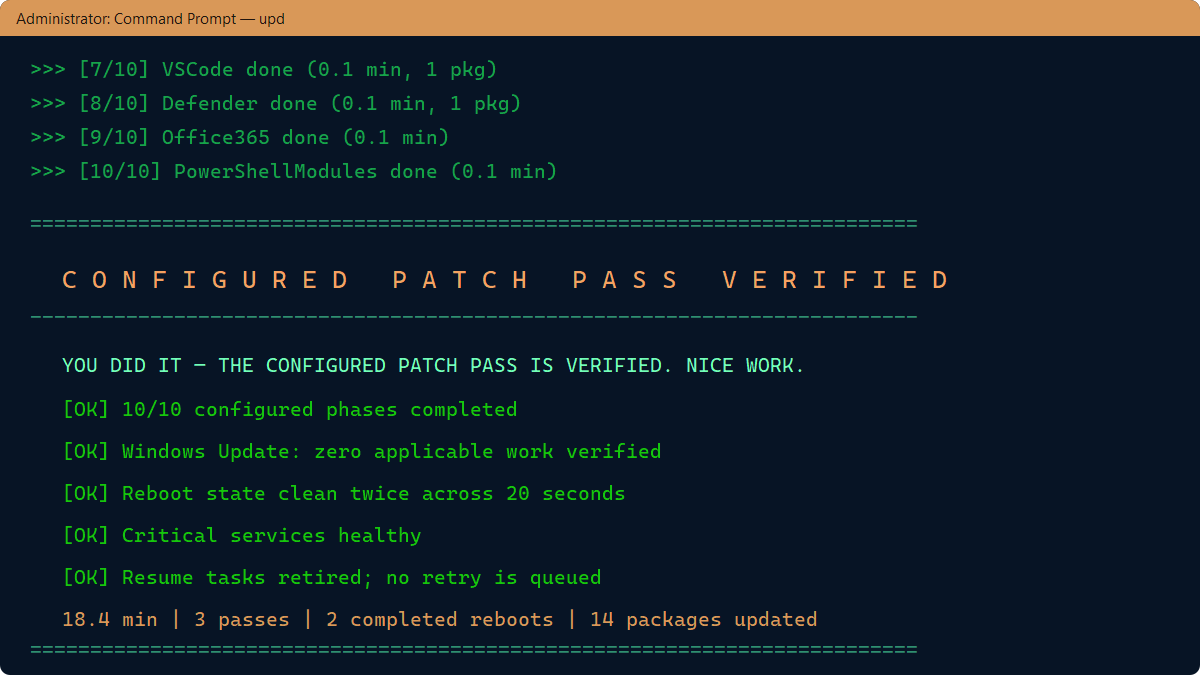
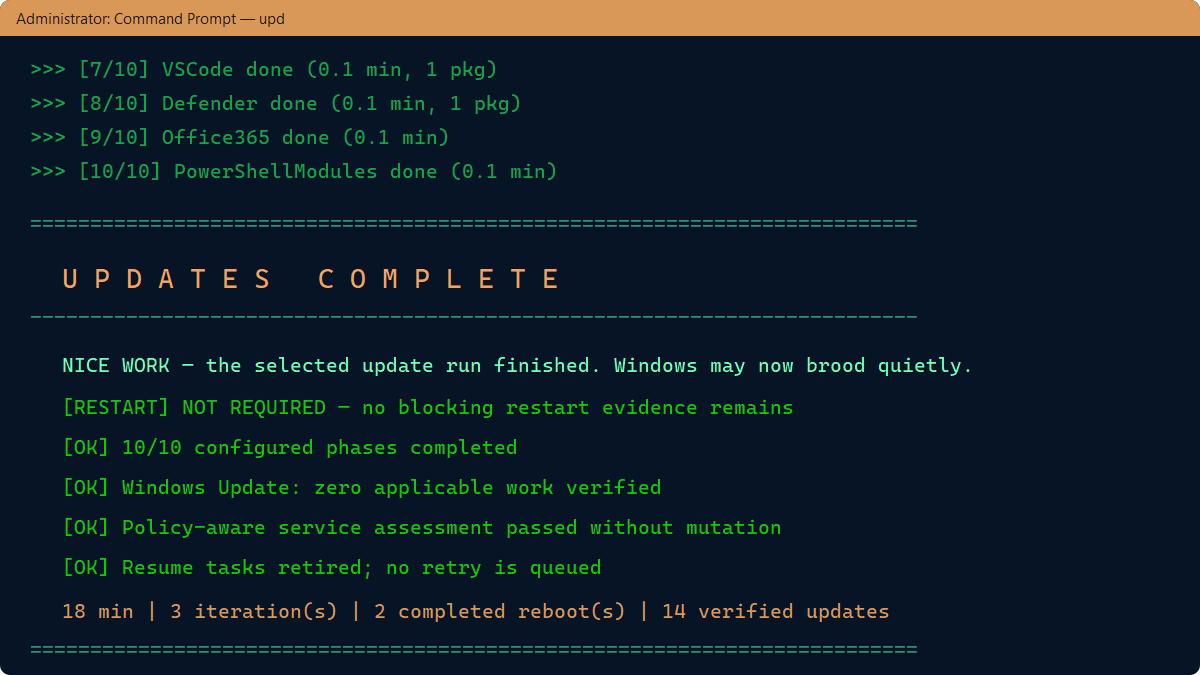
Refresh README for v2.5.62 with useful snark

diff --git a/README.md b/README.md
@@ -1,8 +1,15 @@
 # Boot Update Cycle
 
-**Run `upd` as admin. Walk away. Come back patched—or with a clear, reversible exception report.**
+**Run `upd` as admin. Walk away. Come back patched—or with a clear, reversible explanation of which installer chose violence.**
 
-A Windows boot-time automation tool that runs every configured package manager, checkpoints its work, reboots when updates require it, and resumes until the configured scope verifies clean — then retires its resume tasks.
+A reboot-resilient Windows updater that runs the configured package managers, checkpoints real
+progress, restarts when required, and resumes only the unfinished work until the selected scope
+verifies clean. Then it removes its continuation tasks, because leaving mysterious scheduled tasks
+behind is how software becomes folklore.
+
+[![Latest release](https://img.shields.io/github/v/release/nanoDBA/boot-upd?display_name=tag&sort=semver)](https://github.com/nanoDBA/boot-upd/releases/latest)
+[![PowerShell 7+](https://img.shields.io/badge/PowerShell-7%2B-5391FE?logo=powershell&logoColor=white)](#requirements)
+[![License: MIT](https://img.shields.io/badge/License-MIT-green.svg)](LICENSE)
 
 <img src="docs/img/splash-theme0.png" alt="Boot Update Cycle splash — neon gradient theme" width="684">
 
@@ -10,18 +17,21 @@ A Windows boot-time automation tool that runs every configured package manager, 
 ## 🧭 Navigate
 
 - [Quick start](#quick-start)
+- [Which command do I want?](#which-command-do-i-want)
 - [See it in action](#updater-in-action)
 - [What it updates](#what-it-updates)
 - [Commands](#friendly-launcher)
 - [How reboot/resume works](#what-happens)
 - [Status and recovery](#status-and-recovery)
+- [Common questions](#common-questions)
 - [Security model](#security-model)
 - [Configuration](#configuration) · [Testing](#testing)
 
 <a id="quick-start"></a>
 ## 🚀 Quick start
 
-Open **Windows PowerShell as Administrator**, paste this command, and press Enter:
+Open **Windows PowerShell as Administrator**, paste this command, and press Enter. Yes,
+PowerShell—not Command Prompt wearing a PowerShell command as a hat:
 
 ```powershell
 [Net.ServicePointManager]::SecurityProtocol=[Net.SecurityProtocolType]::Tls12; & ([ScriptBlock]::Create((Invoke-RestMethod -UseBasicParsing -TimeoutSec 30 'https://github.com/nanoDBA/boot-upd/releases/latest/download/Install-UpdCompat.ps1'))) -PromptForArguments
@@ -39,13 +49,26 @@ upd logs     # create a sanitized support ZIP on the Desktop
 upd help     # commands, short aliases, and every option
 ```
 
+### Which command do I want?
+
+| Goal | Run | What you are authorizing |
+|---|---|---|
+| Patch normally | `upd` | Default providers, immediate restart when required |
+| Give me a warning | `upd -r 120` | Same run, with 120 seconds to remember where you left that unsaved document |
+| Show the plan first | `upd plan -drv -r 120` | Resolve options only; no elevation, installs, tasks, or reboots |
+| Be more forceful with Winget | `upd -ar` | One bounded repair attempt, then reversible quarantine instead of an eternal loop |
+| Update AWS tooling | `upd aws` | AWS CLI v2 and modular AWS.Tools; AWS gets its own side quest because of course it does |
+| Tell me what is happening | `upd status` | Read the checkpoint, continuation tasks, and Winget quarantine records |
+| Package evidence for support | `upd logs` | Create a sanitized ZIP and copy its full path to the clipboard |
+| Just admire the pixels | `upd fun 12` | Splash parade and live animation; absolutely no useful work, proudly |
+
 > [!IMPORTANT]
 > `upd` installs software and can restart Windows immediately by default. Save your work
 > first, or use `upd -r 120` for a two-minute reboot warning. Cancel a pending restart with
 > `shutdown /a`.
 
 Want to look around without changing the machine? These commands are read-only and do not
-request elevation:
+request elevation. Suspicion is healthy; production has taught us all things.
 
 ```powershell
 upd splash
@@ -83,7 +106,7 @@ When the configured work, restart checks, service assessment, and terminal clean
 
 <img src="docs/img/updater-complete.png" alt="Boot Update Cycle configured patch pass verified completion screen" width="900">
 
-<sub>Representative v2.5.56 console captures rendered from the production UI text for deterministic, privacy-safe documentation; package counts and elapsed time are illustrative.</sub>
+<sub>Representative v2.5.62 console captures rendered from current production wording for deterministic, privacy-safe documentation; package counts and elapsed time are illustrative.</sub>
 
 ## What it updates
 
@@ -96,7 +119,7 @@ When the configured work, restart checks, service assessment, and terminal clean
 | 5 | **pip** | On | All outdated global packages |
 | 6 | **npm** | On | All global packages |
 | 7 | **Office 365** | On | Click-to-Run silent update |
-| 8 | **PowerShell Modules** | On | All user-installed modules via `Update-Module` |
+| 8 | **PowerShell Modules** | On | Installed modules via PSResourceGet when available, with compatible fallback behavior |
 | 9 | **Scoop** | On | User-scoped; skipped under SYSTEM |
 | 10 | **.NET Global Tools** | **Off** | High risk — can break SDK-dependent builds |
 | 11 | **VS Code Extensions** | On | User-scoped; skipped under SYSTEM |
@@ -107,7 +130,7 @@ When the configured work, restart checks, service assessment, and terminal clean
 ## Install details and compatibility
 
 The [quick-start command](#quick-start) is the shortest supported fresh-install,
-repair, and run path for an elevated Command Prompt, PowerShell, or Win+R.
+repair, and run path from an elevated Windows PowerShell session.
 
 If you prefer the downloaded bootstrap to remain visible in `%TEMP%` for inspection or
 troubleshooting, use the equivalent download-and-run form:
@@ -133,7 +156,9 @@ Already installed:
 upd
 ```
 
-That's it. Runs from an elevated command prompt, PowerShell, or the Run dialog (Win+R → `upd` → Ctrl+Shift+Enter).
+That's it. Once installed, `upd` runs from an elevated Command Prompt, PowerShell, or the
+Run dialog (Win+R → `upd` → Ctrl+Shift+Enter). The installer is PowerShell; the installed
+launcher is the part that works everywhere. Tiny distinction, surprisingly large number of error messages.
 
 `upd.cmd` auto-adds itself to your system PATH on first run, so it works from anywhere after that.
 
@@ -171,7 +196,8 @@ upd --exclude Teams,OneDrive --skip-office365
 Short forms keep everyday commands light: `upd d 12`, `upd f`, `upd p -drv -r 120`,
 `upd r -s -o Verbose`, `upd a`, `upd l`, `upd u`, and `upd v`. Short commands do not use a
 leading dash; ambiguous dashed forms fail before they can reach the update path. Long
-names remain available for scripts and discoverability.
+names remain available for scripts and discoverability. `upd help` knows all of them, has
+no feelings about your typing speed, and is more current than a copied command from six releases ago.
 
 A stable raw-argument bootstrap now checks the latest GitHub release before an operational
 command reaches the typed parser. Every executable
@@ -336,7 +362,8 @@ Package managers are auto-detected. Missing ones are skipped with a warning.
 ## 🛟 Status and recovery
 
 Start with the built-in commands; they keep the common support path short and preserve
-useful evidence:
+useful evidence. Copying a 4,000-line console screenshot into chat is technically evidence,
+in the same sense that a landfill is technically a filing system:
 
 ```powershell
 upd status    # checkpoint, resume tasks, and reversible Winget quarantines
@@ -345,9 +372,20 @@ upd repair    # restore checksummed launcher/core files
 upd update    # refresh the verified source bundle without starting an update cycle
 ```
 
-If explicit `-ar` mode quarantines a repeatedly failing Winget package, completion is
-reported as **complete with quarantine**, never fully patched. The durable status record
-includes the reversal command:
+### What the final result means
+
+| Result | Meaning | What you should do |
+|---|---|---|
+| **Updates complete — no restart required** | Every enabled phase and verification check passed | Enjoy the rare moment when Windows has no further requests |
+| **Updates complete** with skipped packages | Repeated Winget failures were reversibly pinned to prevent another loop | Nothing now; use the displayed `upd uq` command when you want to retry them |
+| **Recovery pass queued** | One or more phases did not verify; a near-term retry is armed | No action unless it keeps returning or reaches the safety limit |
+| **User update pass pending** | Machine work finished, but user-scoped work needs the saved user to sign in | Sign in as that user; do not "fix" it by deleting the checkpoint |
+| **Restart required** | Blocking evidence was confirmed and continuation was verified | Save work; boot-upd resumes automatically after Windows restarts |
+| **Needs attention** | A bounded safety limit or terminal failure stopped automation | Run `upd status`, then `upd logs`; the tool stopped rather than improvising on your operating system |
+
+If explicit `-ar` mode quarantines a repeatedly failing Winget package, the final screen says
+the selected update run finished **with skipped packages**—not that the machine is fully patched.
+The durable status record includes the reversal command:
 
 ```powershell
 upd uq Package.Id    # remove one blocking pin
@@ -381,12 +419,55 @@ Get-WinEvent -FilterHashtable @{LogName='Application'; ProviderName='BootUpdateC
 # Cancel a pending reboot
 shutdown /a
 
-# Remove the scheduled task (stops the cycle)
-Unregister-ScheduledTask -TaskName 'BootUpdateCycle' -Confirm:$false
+# Remove both continuation tasks (stops automatic resume without deleting logs)
+Get-ScheduledTask -TaskName 'BootUpdateCycle','BootUpdateCycleFallback' -ErrorAction SilentlyContinue |
+    Unregister-ScheduledTask -Confirm:$false
 
 # Full cleanup
 & "$env:ProgramData\BootUpdateCycle\Uninstall.ps1" -RemoveFolder
 ```
+
+Canceling `shutdown` does not mean the update checkpoint has forgotten why it wanted a reboot.
+That would be convenient, but it would also be lying.
+
+<a id="common-questions"></a>
+## 🙋 Common questions
+
+### Is `ChocolateyPrototypeCleanup` a problem?
+
+Usually, no. It means Windows has delete-only housekeeping for Chocolatey's temporary prototype
+directory. It does **not** block convergence or consume the reboot budget. Since v2.5.62 it stays
+out of Normal warnings: Verbose shows a compact category/count, while Debug and the durable log
+retain sanitized fingerprints. A real source/destination replacement is still blocking.
+
+### Why did it restart more than once?
+
+Some updates reveal more applicable work only after reboot. boot-upd preserves completed phases,
+increments the reboot count only after observing a new Windows boot session, and resumes the
+unfinished work. It is a checkpointed update cycle, not `while ($true) { reboot }` with branding.
+
+### Why is Windows Update being checked again?
+
+A clean online assessment can be reused for up to six hours across reboots only when the local
+Windows Update catalog, configured scope, update source, and servicing-history fingerprints still
+agree. If one changes, boot-upd asks Windows again. Cached confidence is useful; cached fiction is not.
+
+### Why did a package get skipped?
+
+Normal mode leaves ordinary pins and unsupported inventory visible but does not override them.
+With explicit `upd -ar`, one repeated, identical Winget failure may receive a bounded repair attempt
+and then a reversible blocking pin. Use `upd status` to see it and `upd uq Package.Id` to retry it.
+
+### Does `upd aws` run during a normal `upd`?
+
+No. AWS tooling is opt-in. `upd aws` explicitly modernizes AWS CLI v2 and modular AWS.Tools;
+`upd --aws-tooling` includes that phase in the complete update cycle. Use the preservation flags
+only when an older script genuinely depends on legacy modules, not because old versions look lonely.
+
+### Can I see everything without the console becoming a novel?
+
+Press `v` during a run to cycle Quiet → Normal → Verbose → Debug. Normal is designed for humans;
+the rotating logs preserve the exhaustive details for humans who have become debuggers.
 
 <a id="security-model"></a>
 ## 🔐 Security model